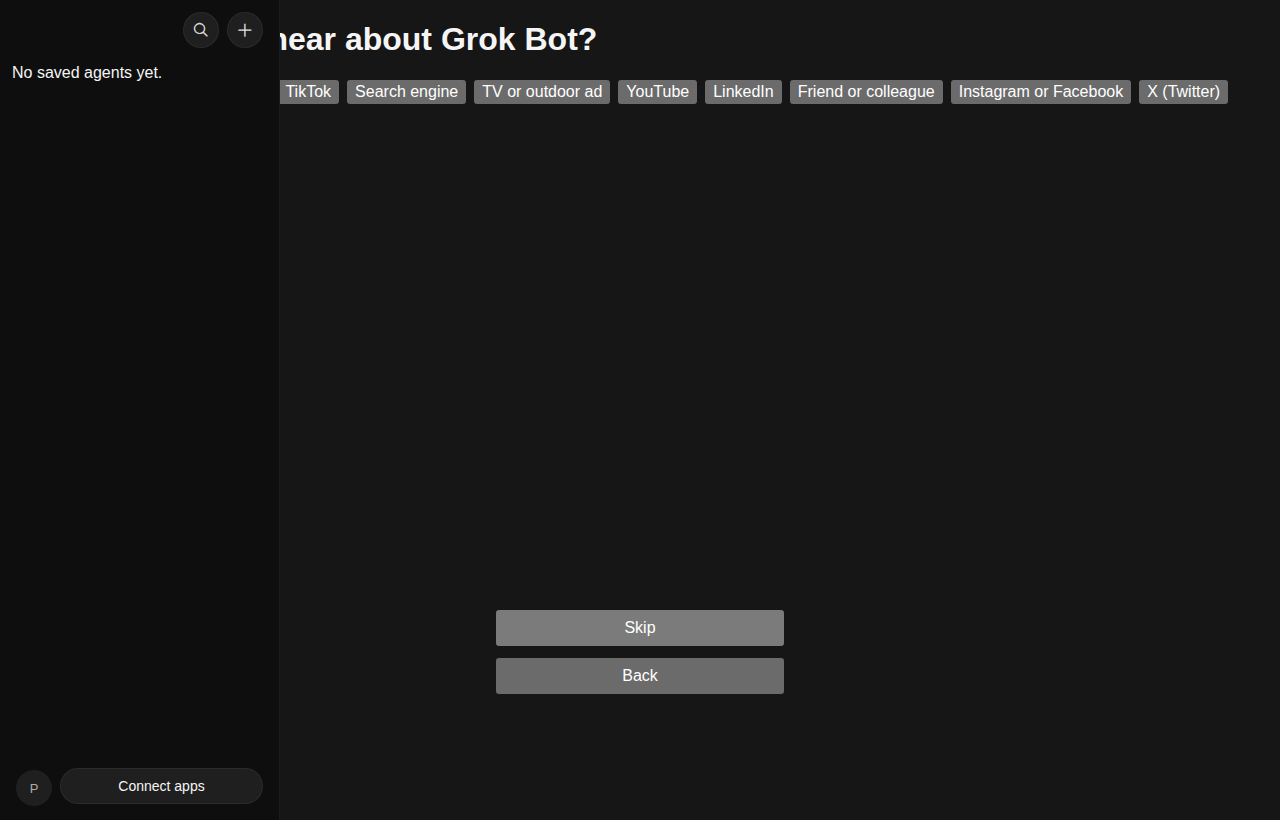
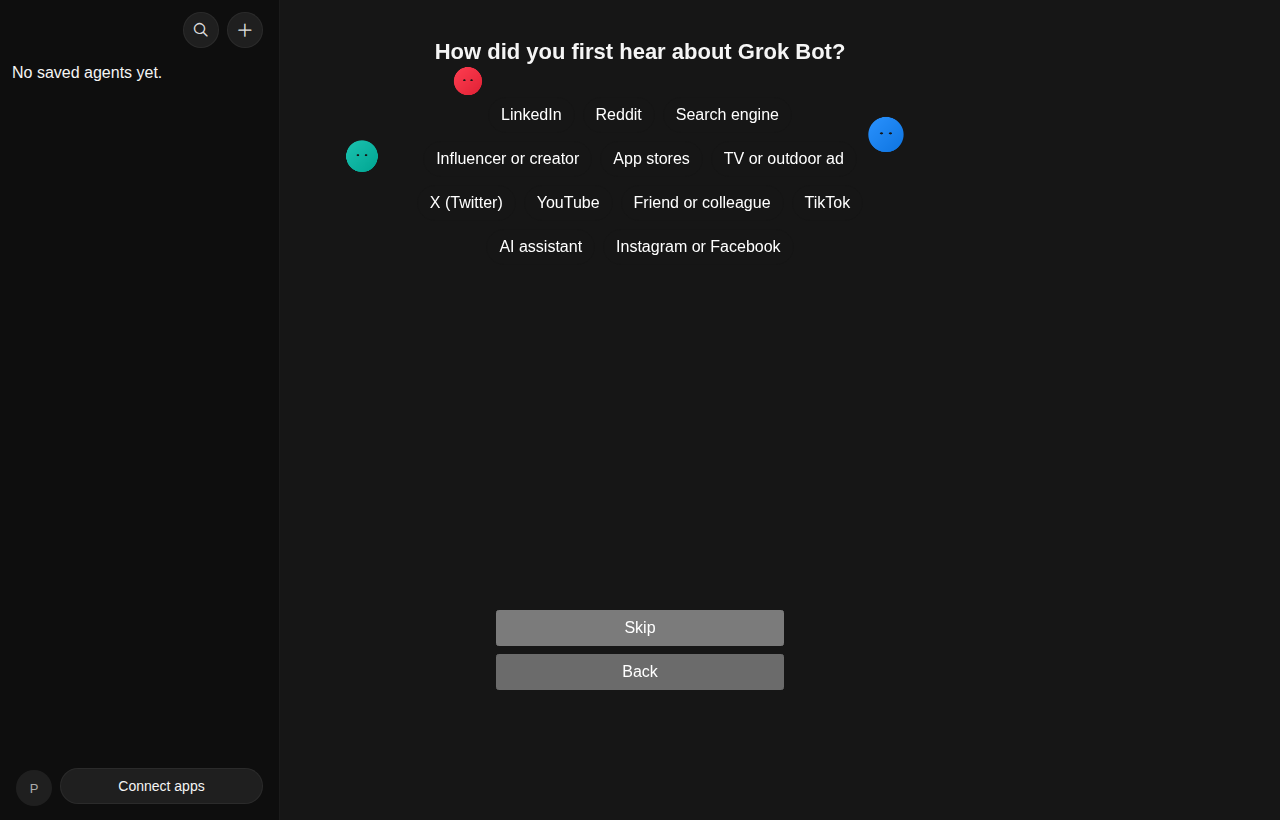
docs(receipt): T28c 回执回仓+六页截图

diff --git a/work/tickets/receipts/T28.md b/work/tickets/receipts/T28.md
@@ -33,3 +33,12 @@
 - 修复连锁：steps 的 ATTRIBUTION import 残留 → renderer-root-error（探针抓 ReferenceError）
 - 修复后：onboarding **6 passed**、grok-shim+fold **217**、check **diff=0**
 - reviewer 无发现维度：三页文案逐条全等（探针）、建 bot 链/already 分支/测试时序
+
+## T28c 返修回执（2026-11-07 14:5x，HEAD 9ca7ab8c）
+三 F 全闭环：
+- F1（三页出框/被遮）：onboarding-steps-0793.css 版心（居中完整）；④ 新增 elementFromPoint 中心命中 + bounding box 视口断言（attribution 12 卡逐张查）——toBeVisible 的盲区堵上
+- F2（复制缺件）：四步复用上游导出 SignedInOnboardingStep + SceneCast（标题可见/底栏序/composer/气泡/hand-off 图标全回）；Framed 本地 2 行；根节点 data-platform/step/step-index/theme
+- F3（单测缺格）：NAV 逐字 export + shuffle 纯函数；unit 5 新格（含 attribution 原序比——extract 每项 4 元组取前 2 元比）
+- 施工坑：scenePlacements 在 jobs 页可给 0 角色（cast 断言须在 meet 页）；aria-hidden 舞台层用 DOM 断言（toBeVisible 恒 false）
+- 验收：onboarding **6**、kickstart+bots **13**、grok-shim+fold **222**、check **diff=0**
+- 截图六页重拍+逐张亲眼看：role（9 卡全+标题全文+Skip 底栏）、attribution（12 卡+标题全文）、connect（Gmail/Google Calendar 两卡+Skip for now 居中）、meet（Meet Grok Bot 标题+composer 打字+4 角色 cast）——回执按工单 6「写清看到了什么」
